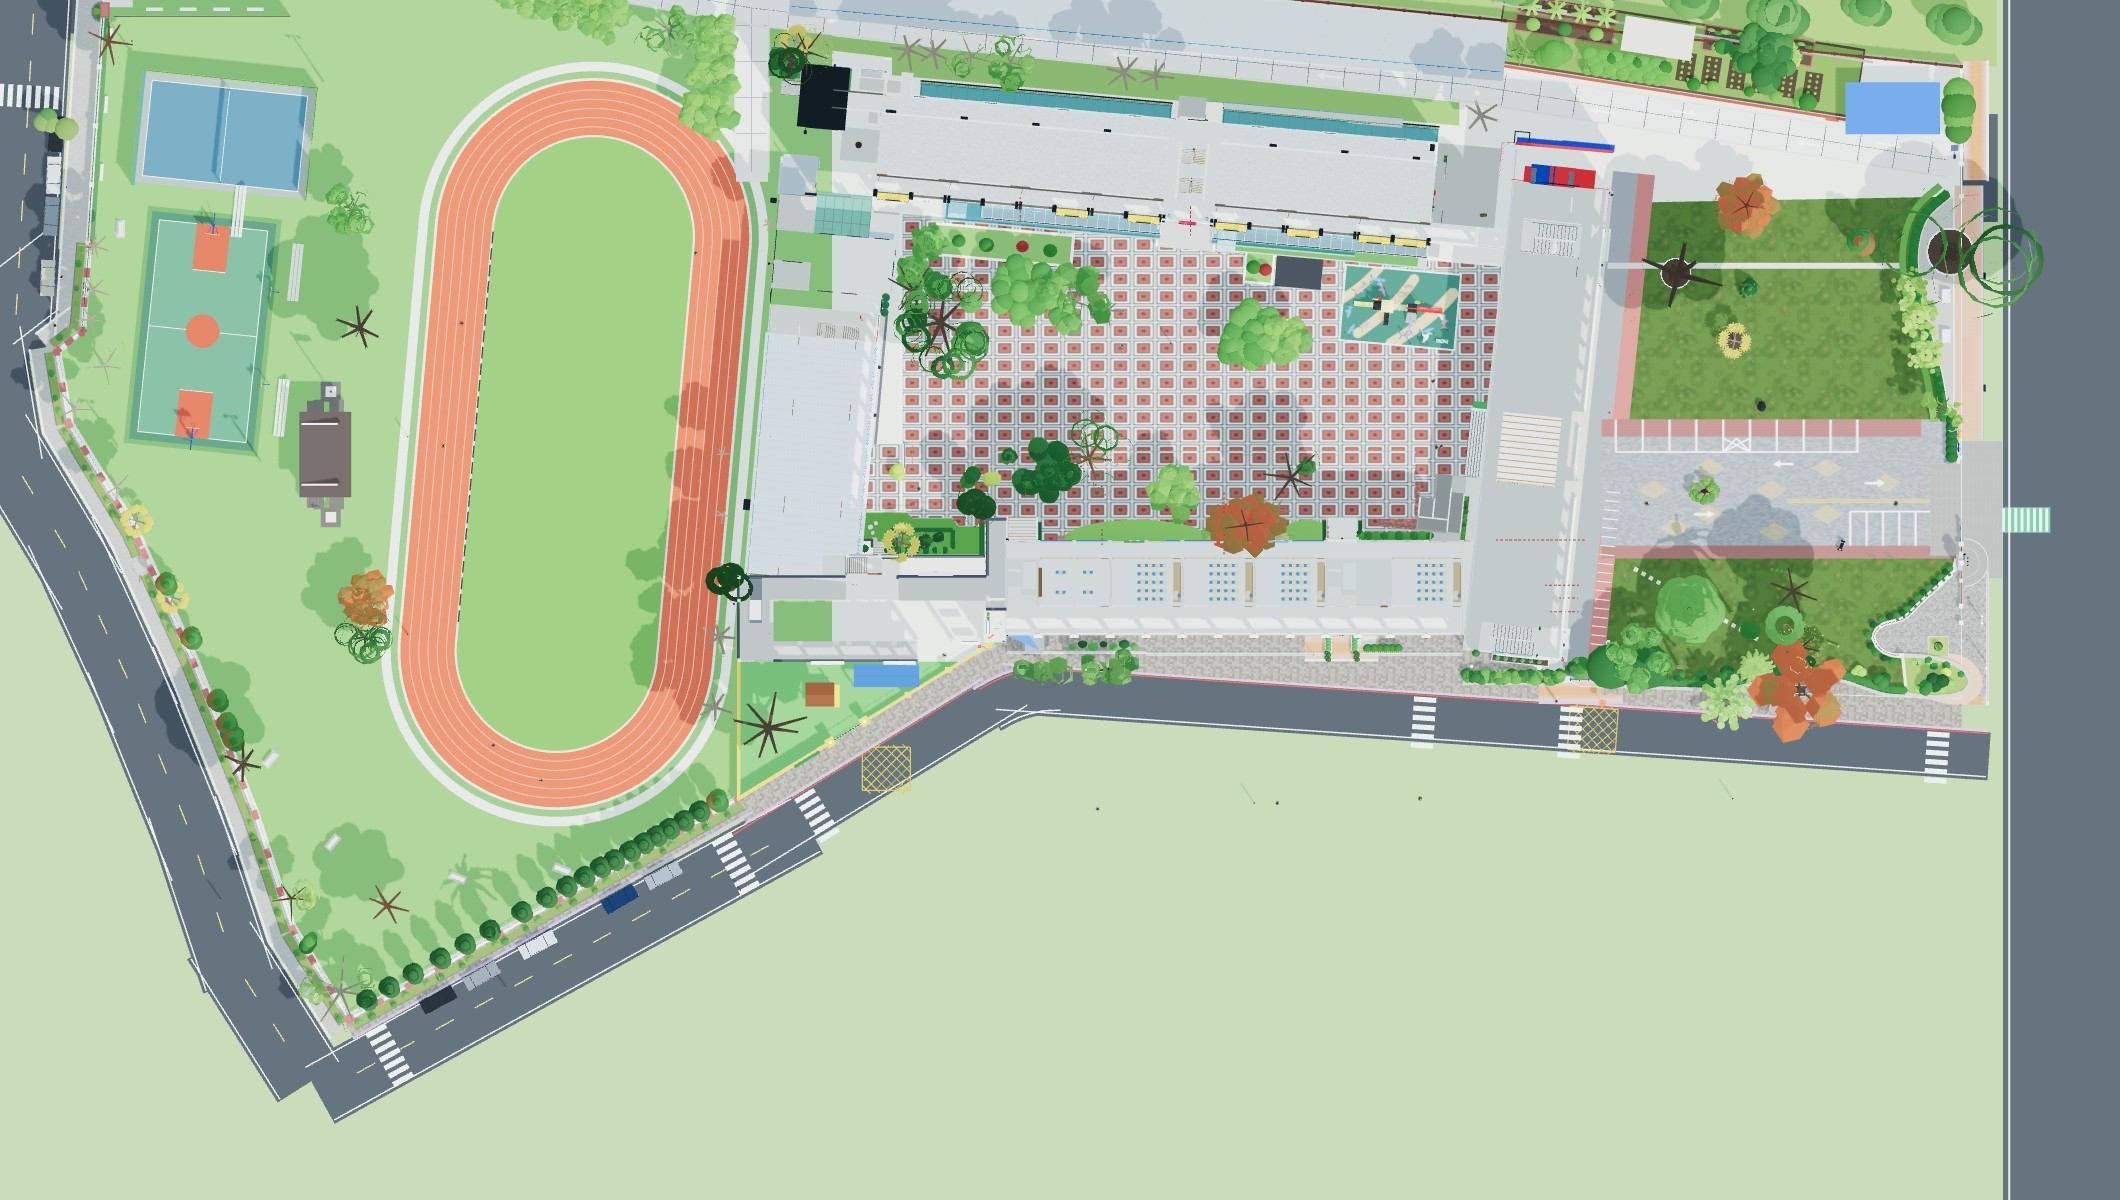
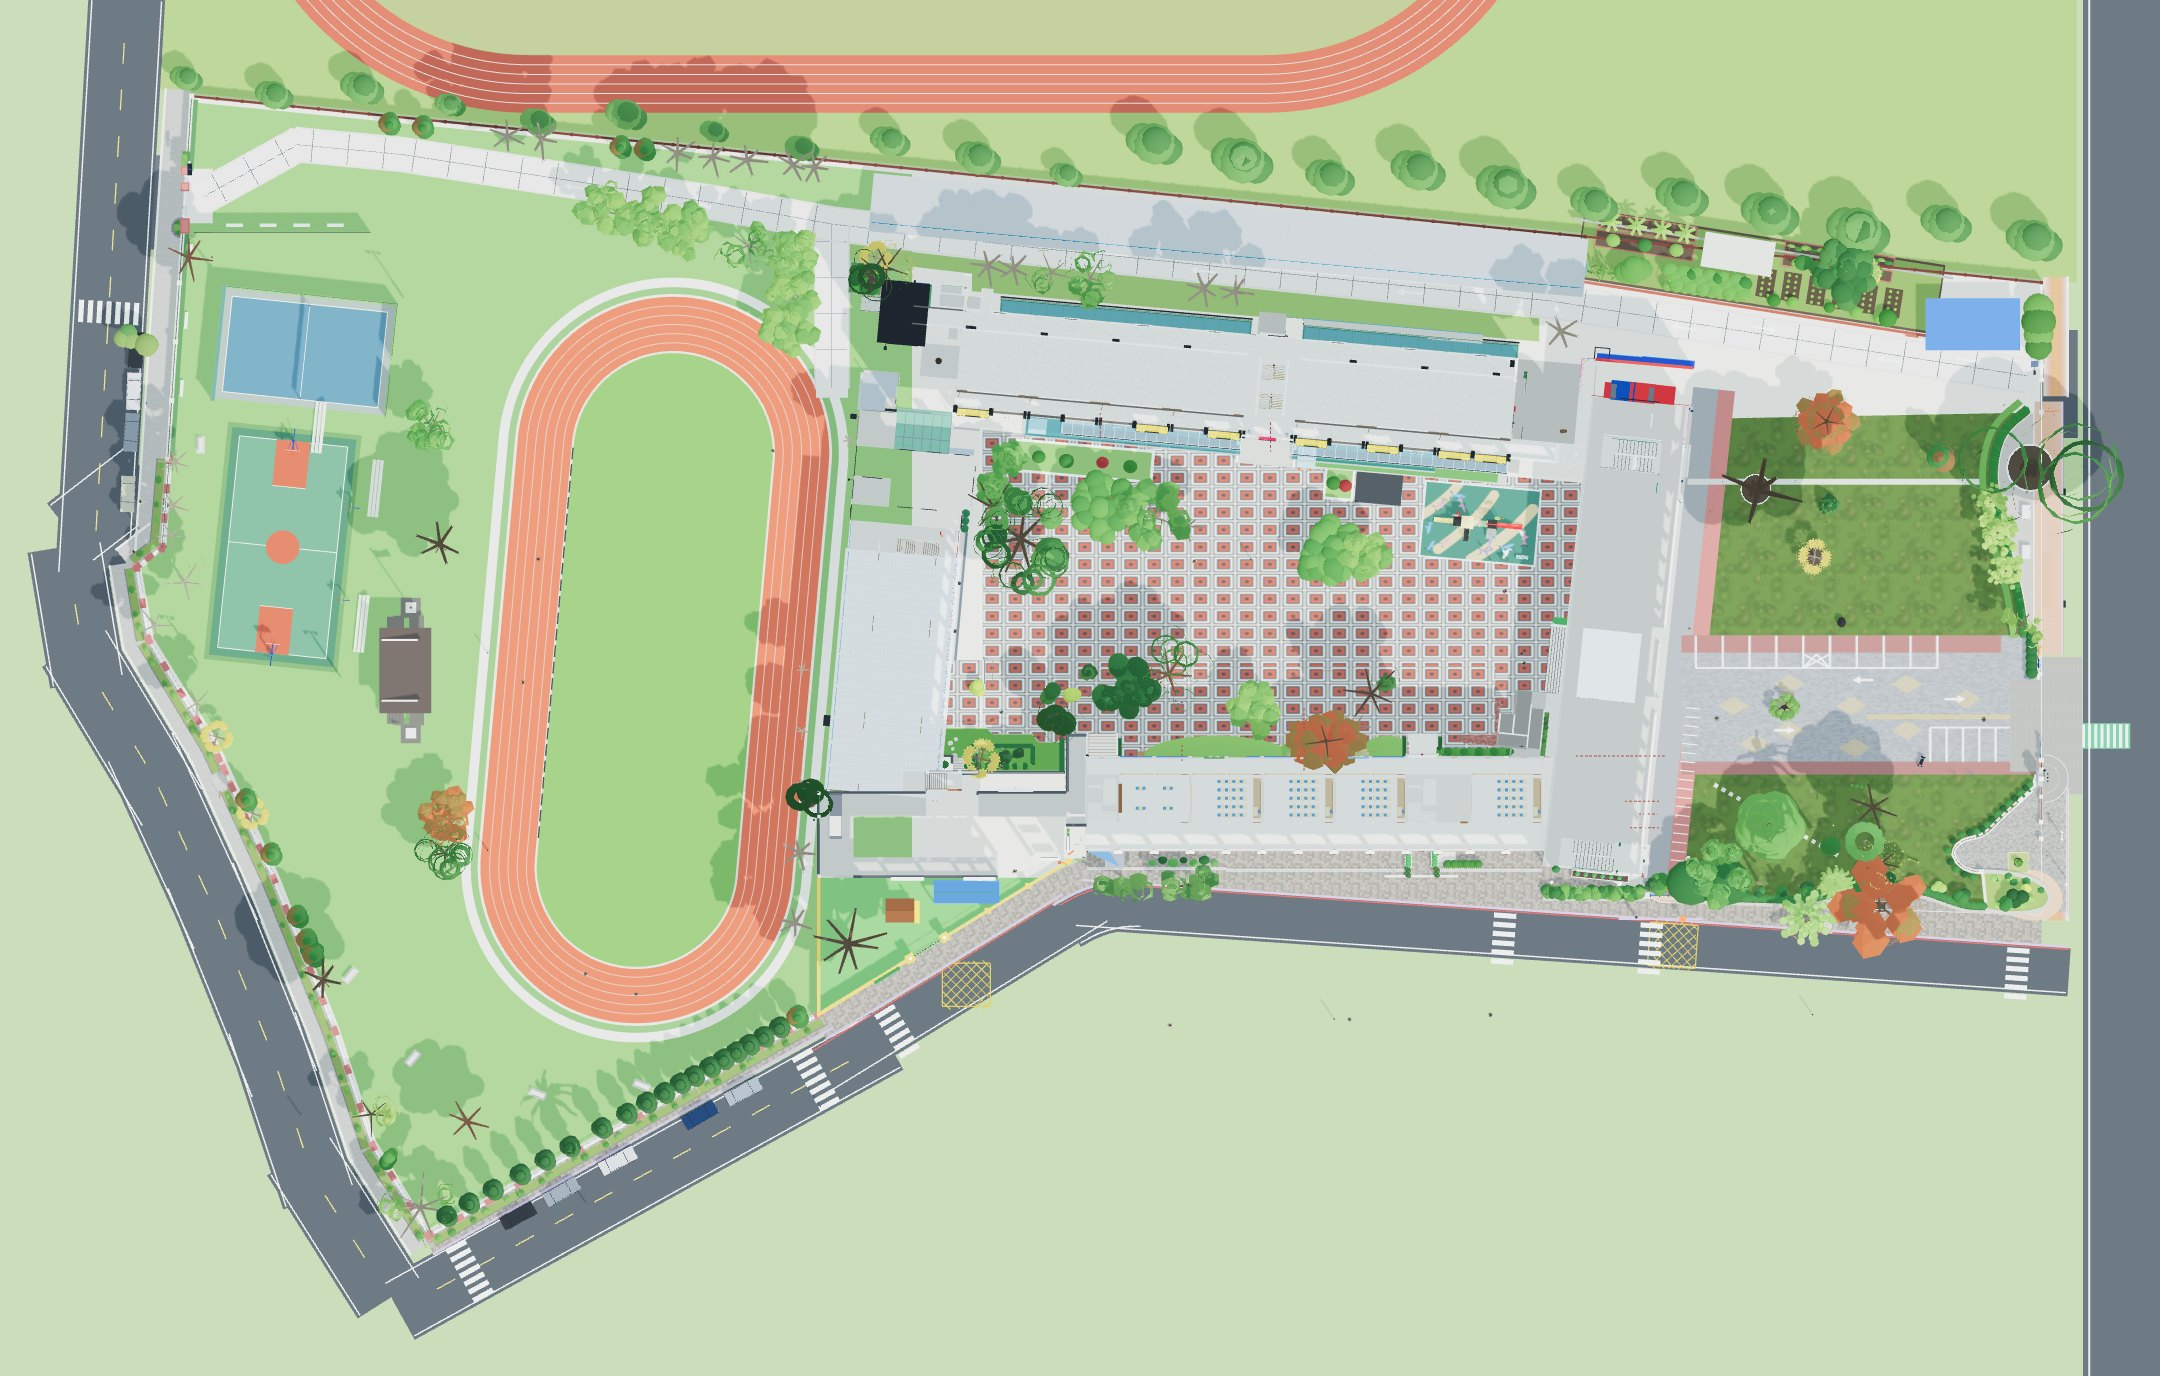
fix(admin): widen admin base map extent so the whole campus is visible
The 3D campus now extends north of z=-65, so the previous 2120x1200 render
(X0=-130, Z0=-65) cut off the north road, wall and track. Re-render at
8 px/m over X -140..130, Z -92..80 (2160x1376), hide 360 beacons in the
render, and update MAP constants in admin.html.

Claude-Session: https://claude.ai/code/session_0167Rfd33wVu9n5YXFwv3SDe

diff --git a/admin.html b/admin.html
@@ -137,7 +137,7 @@
       </div>
       <div class="seg"><button type="button" id="labelsBtn" class="on">名稱</button></div>
     </div>
-    <div class="stage" id="stage"><img id="mapImg" src="./assets/admin_topdown.jpg" alt="校園俯視圖" width="2120" height="1200"></div>
+    <div class="stage" id="stage"><img id="mapImg" src="./assets/admin_topdown.jpg" alt="校園俯視圖" width="2160" height="1376"></div>
     <div class="floor-badge" id="floorBadge"></div>
     <div class="map-hint" id="mapHint">拖曳紅點移動位置 · 拖曳空白處平移 · 滾輪縮放（放大後顯示名稱）</div>
   </div>
@@ -178,7 +178,7 @@
 // 資料：data/spots.js（window.CAMPUS_360_SPOTS = [...]），照片：pano/<id>.jpg、pano/thumbs/<id>.jpg
 // 儲存：以 GitHub Git Data API 將所有變更合成「一個 commit」直接發布
 // ============================================================================
-const MAP = { X0: -130, Z0: -65, PPM: 8, W: 2120, H: 1200 };           // 與 assets/admin_topdown.jpg 對應
+const MAP = { X0: -140, Z0: -92, PPM: 8, W: 2160, H: 1376 };           // 與 assets/admin_topdown.jpg 對應
 const FLOOR_Y = { '1F': 2.2, '2F': 6.8, '3F': 11.2 };
 const DATA_PATH = 'data/spots.js';
 const PANO_W = 4096, THUMB_W = 400;
